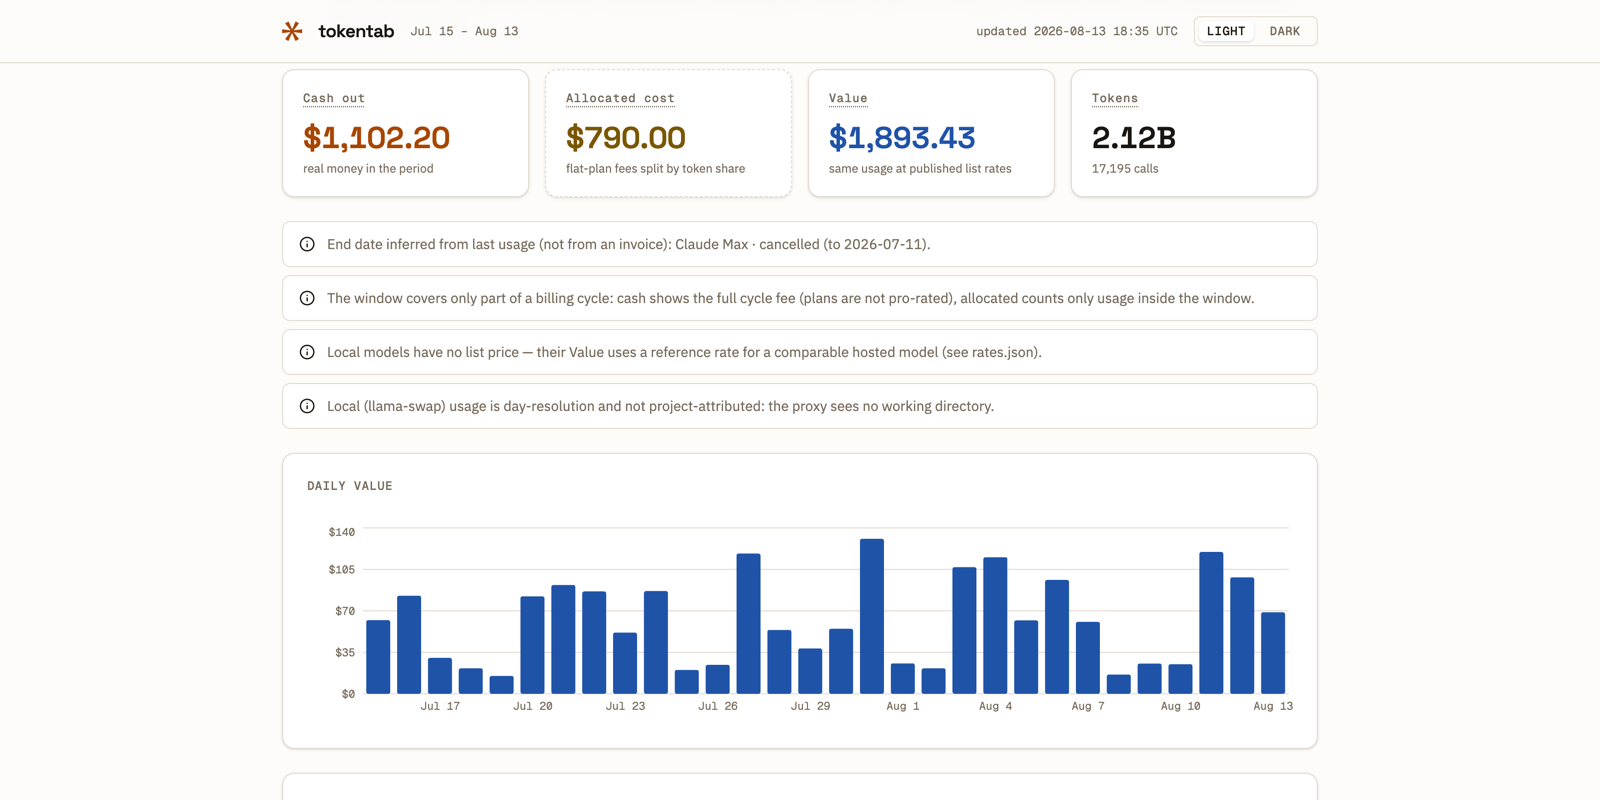
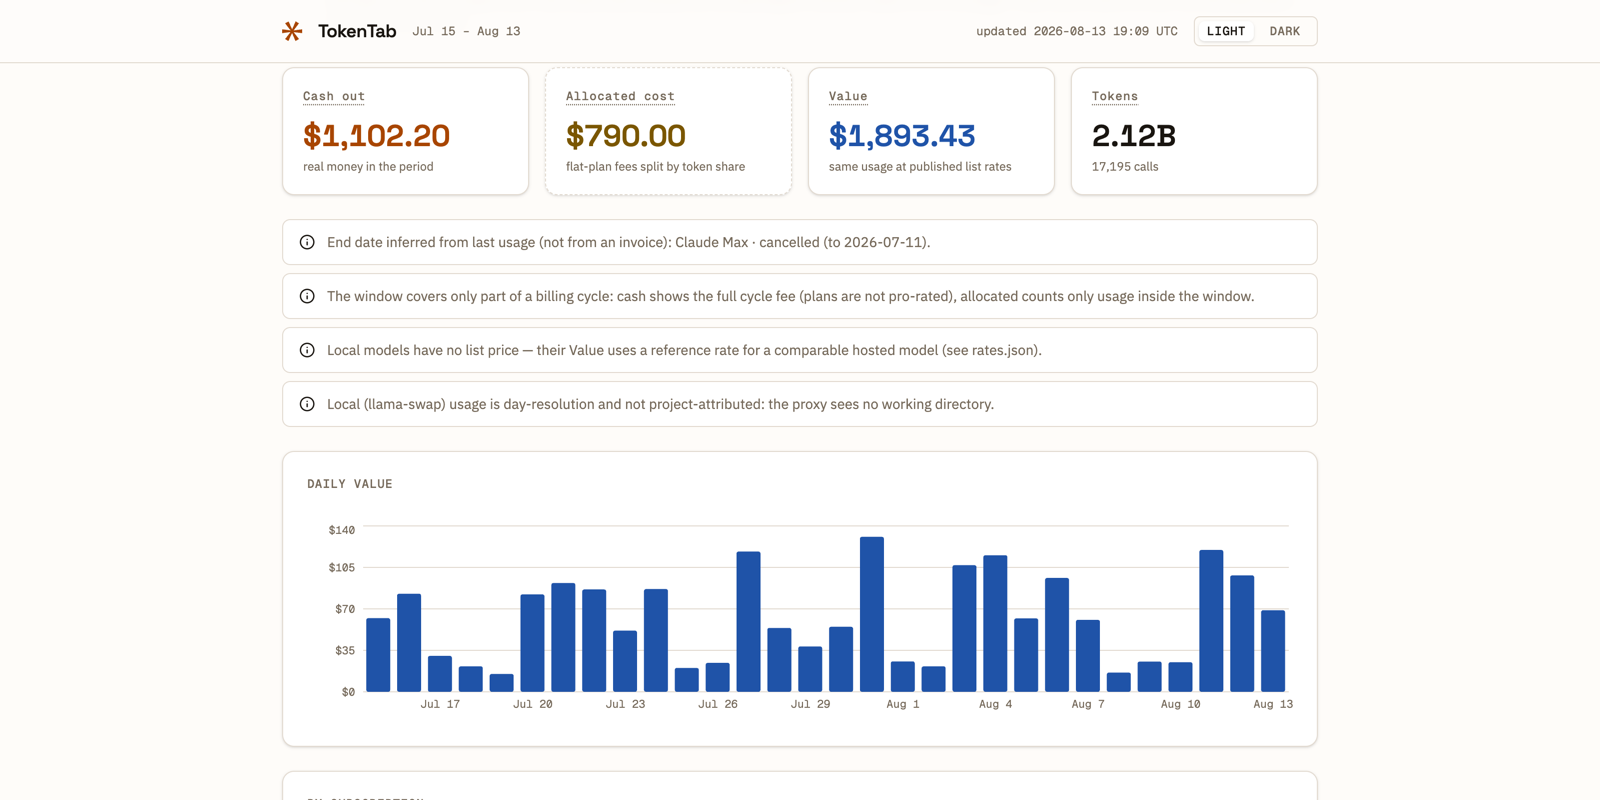
feat(web): brand the UI "TokenTab", title "TokenTab | 42labs" (#4)
The wordmark in the header and the browser title are the product's name as
read by a person; the lowercase `tokentab` stays what it always was — the
command, the package directory and the repo.

Also stops a production build from shipping the demo fixture. public/ is
copied wholesale, so `npm run build` on a machine where `build:demo` had run
earlier would carry web/public/demo.json into dist — the earlier check only
passed because the generated file happened to be absent. A build plugin now
deletes it outside demo mode, so the guarantee holds on a dirty tree too.

Screenshots regenerated from the demo build so the README shows the new
wordmark.

diff --git a/web/vite.config.ts b/web/vite.config.ts
@@ -1,16 +1,28 @@
-import { defineConfig } from 'vite'
+import { defineConfig, type Plugin } from 'vite'
 import react from '@vitejs/plugin-react'
 import tailwindcss from '@tailwindcss/vite'
+import fs from 'node:fs'
 import path from 'node:path'
+
+/** The demo fixture sits in public/ so the app can just fetch it, but public/ is
+ *  copied wholesale — so a production build run on a machine where `build:demo`
+ *  ran earlier would quietly ship a megabyte of demo data. Drop it. */
+const dropDemoFixture = (mode: string): Plugin => ({
+  name: 'drop-demo-fixture',
+  apply: 'build',
+  closeBundle() {
+    if (mode !== 'demo') fs.rmSync(path.resolve(__dirname, 'dist/demo.json'), { force: true })
+  },
+})
 
 // `base: './'` (relative) so one bundle works served at a domain root or mounted
 // at a subpath. Output goes to ./dist, which tokentab.py serves directly
 // (WEB_DIR, override with TOKENTAB_WEB) — the serving host needs no Node.
 //
 // The dev proxy points `npm run dev` at a local `tokentab serve` on :8899.
-export default defineConfig({
+export default defineConfig(({ mode }) => ({
   base: process.env.VITE_BASE || './',
-  plugins: [react(), tailwindcss()],
+  plugins: [react(), tailwindcss(), dropDemoFixture(mode)],
   resolve: {
     alias: {
       '@': path.resolve(__dirname, './src'),
@@ -25,4 +37,4 @@ export default defineConfig({
     outDir: 'dist',
     emptyOutDir: true,
   },
-})
+}))

diff --git a/web/src/App.tsx b/web/src/App.tsx
@@ -94,7 +94,7 @@ export default function App() {
         <header className="sticky top-0 z-10 border-b border-border bg-background/95 backdrop-blur">
           <div className="mx-auto flex max-w-[var(--w-xl)] flex-wrap items-center gap-x-4 gap-y-2 px-[var(--pad-x)] py-4">
             <BrandMark className="size-5" />
-            <h1 className="font-heading text-lg font-semibold tracking-tight">tokentab</h1>
+            <h1 className="font-heading text-lg font-semibold tracking-tight">TokenTab</h1>
             {data && (
               <span className="font-mono text-xs text-muted-foreground">
                 {shortDay(data.period.from)} – {shortDay(data.period.to)}

diff --git a/web/index.html b/web/index.html
@@ -7,7 +7,7 @@
          root or mounted at a subpath (matches vite base './'). -->
     <link rel="icon" href="./icon.svg" type="image/svg+xml" />
     <link rel="icon" href="./favicon.ico" sizes="any" />
-    <title>tokentab</title>
+    <title>TokenTab | 42labs</title>
     <meta
       name="description"
       content="What AI actually costs, across providers, projects and machines — flat-rate plans included rather than excluded."

diff --git a/README.md b/README.md
@@ -5,7 +5,7 @@
 [![Project Status: Active](https://www.repostatus.org/badges/latest/active.svg)](https://www.repostatus.org/#active)
 [![Maintenance](https://img.shields.io/badge/maintenance-passively--maintained-yellowgreen.svg)](CONTRIBUTING.md)
 
-![tokentab — cash out, allocated cost and value over the last 30 days, with daily value per day](docs/dashboard.png)
+![TokenTab — cash out, allocated cost and value over the last 30 days, with daily value per day](docs/dashboard.png)
 
 **[Live demo →](https://tokentab.42labs.io/)** — 100% synthetic data, no store behind it.
 
